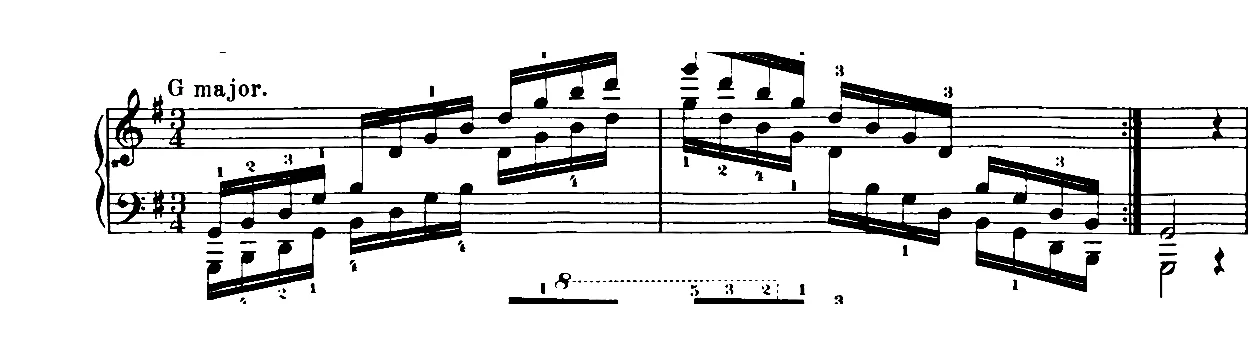
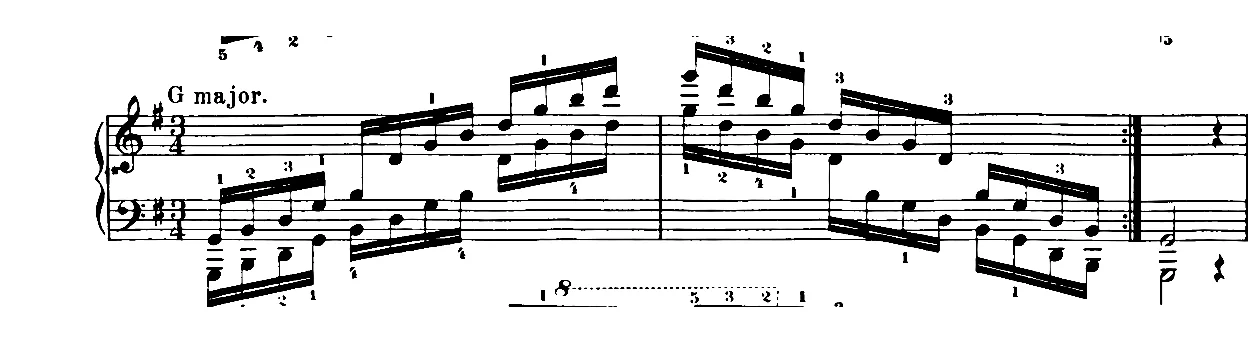
Add 2nd warm-up: all 24 arpeggios (Hanon); default advanced pieces to Scale + Arpeggio (per-piece override to velocity/none)

Changed region(s): [[0.0625, 0.1166, 1.0, 0.9038], [0.4062, 0.758, 0.6875, 0.9038], [0.1562, 0.0875, 0.25, 0.1749]]

diff --git a/index.html b/index.html
@@ -1223,7 +1223,7 @@ const SCORES = {
 const SCORE_PAGE = {};  // per-movement PDFs now start at page 1 — no anchors needed
 // Pieces that should show the PDF score even if MusicXML/notes exist (user preference)
 const FORCE_PDF = new Set(["rav-menuet-haydn"]);
-const SCORE_VER = "20260913i";  // bump whenever a PDF is replaced in-place, to bust browser cache
+const SCORE_VER = "20260913j";  // bump whenever a PDF is replaced in-place, to bust browser cache
 function pdfSrc(id, params){
   const pg = SCORE_PAGE[id] ? "page=" + SCORE_PAGE[id] : "";
   const q = [pg, params].filter(Boolean).join("&");
@@ -1364,18 +1364,19 @@ const WARMUP_SCALE_KEYS = new Set(["C major","G major","D major","A major","E ma
 const WARMUP_ENHARM = { "F♯ major":"G♭ major", "C♯ major":"D♭ major" };   // no own Hanon page — reuse the twin
 const wslug = k => k.toLowerCase().replace(/♭/g,"b").replace(/♯/g,"s").replace(/ /g,"-");
 function scaleImg(key){ return WARMUP_SCALE_KEYS.has(key) ? "warmup-scale-"+wslug(WARMUP_ENHARM[key]||key) : null; }
-// 2nd technique — per-piece (only a few sourced so far; the rest are Scale-only for now)
-const WARMUP_ARP    = { "G major":"warmup-arp-g-major" };
+function arpImg(key){ return WARMUP_SCALE_KEYS.has(key) ? "warmup-arp-"+wslug(WARMUP_ENHARM[key]||key) : null; }
+// 2nd technique: default = arpeggio (Hanon, all keys); override per piece to "velocity"/"none".
 const WARMUP_CZERNY = { "G major":{ sub:"Czerny · School of Velocity, Op. 299 No. 16", imgs:["warmup-czerny-g"] } };
 const WARMUP_EASY_MAX = 5;   // level <= this => Scale only
-const WARMUP_TECH = { "debussy-g77": "arpeggio" };   // per-piece 2nd technique
+const WARMUP_TECH = {};      // per-piece override, e.g. {"liszt-x":"velocity","bach-y":"none"}
 function warmupItems(p){
   const it = [];
   const sc = scaleImg(p.key);
   if (sc) it.push({ id:"scale", label:"Scale", title:`${p.key} scale`, sub:"Hanon · Two octaves, hands together", imgs:[sc] });
   if (p.level > WARMUP_EASY_MAX) {
-    const tech = WARMUP_TECH[p.id];
-    if (tech === "arpeggio" && WARMUP_ARP[p.key]) it.push({ id:"arp", label:"Arpeggio", title:`${p.key} arpeggio`, sub:"Hanon · 1·3·5·8, smooth thumb-under", imgs:[WARMUP_ARP[p.key]] });
+    const tech = WARMUP_TECH[p.id] || "arpeggio";
+    const a = arpImg(p.key);
+    if (tech === "arpeggio" && a) it.push({ id:"arp", label:"Arpeggio", title:`${p.key} arpeggio`, sub:"Hanon · 1·3·5·8, smooth thumb-under", imgs:[a] });
     else if (tech === "velocity" && WARMUP_CZERNY[p.key]) it.push({ id:"vel", label:"Velocity", title:`${p.key} velocity`, sub:WARMUP_CZERNY[p.key].sub, imgs:WARMUP_CZERNY[p.key].imgs });
   }
   return it.slice(0, 2);
